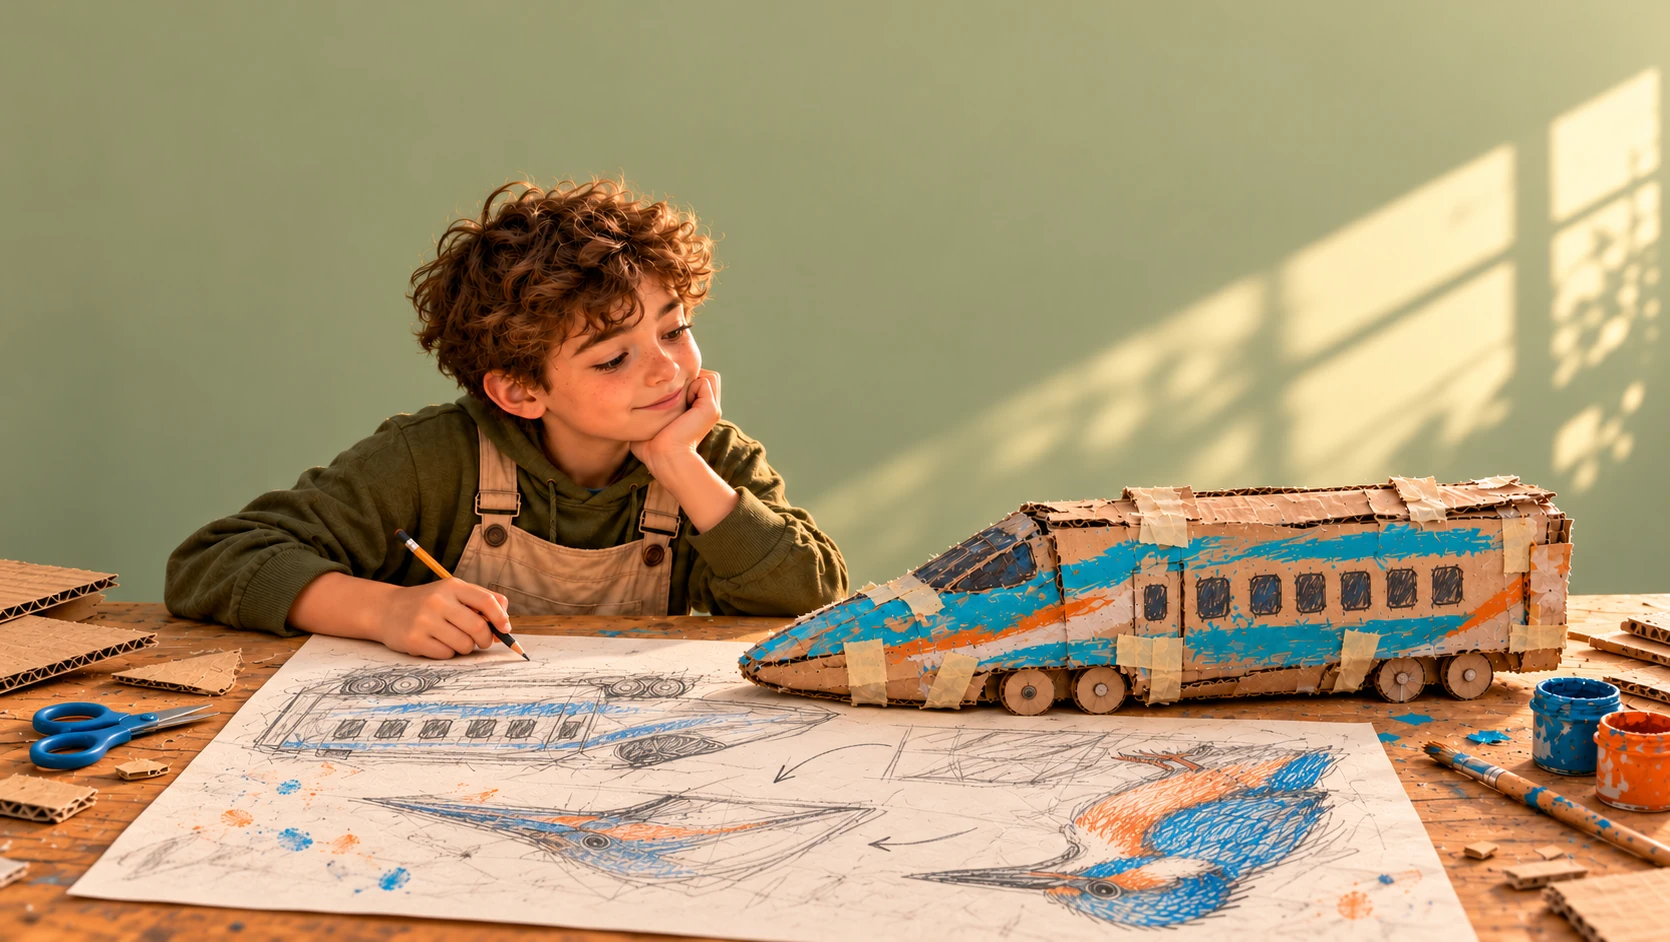
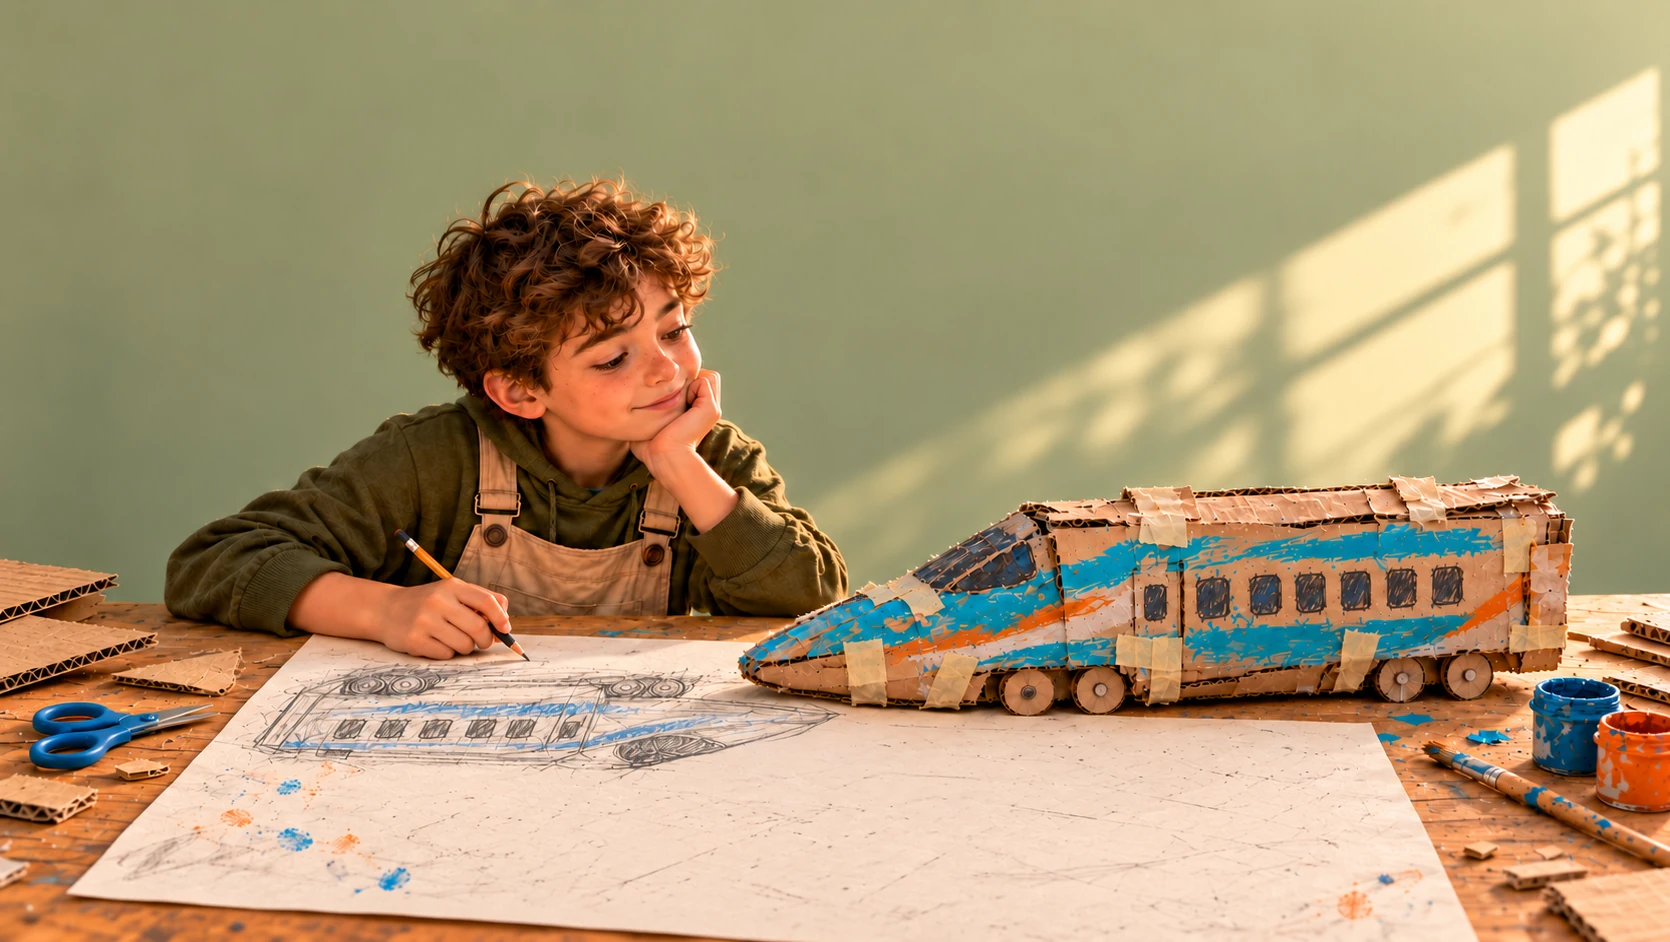
feat(landing): new Try one mission picture; the bird fades into the pencil train sketch
susan's 2026-10-18 picture (no kingfisher drawings on the paper) replaces
the mission photo for both languages. The flying bird now fades into the
pencil sketch of the train on the paper, then flies on as before.

diff --git a/frontend/src/app/[locale]/(marketing)/_components/FlyingBird.tsx b/frontend/src/app/[locale]/(marketing)/_components/FlyingBird.tsx
@@ -72,8 +72,8 @@ const NATIVE_HEIGHT = 8988;
 // lowered 40 artwork px as susan asked for the bird and papers.
 const HERO_ART = { x: 1418 / 1.1497, y: 387 / 1.1497 + 40, scale: 0.369 / 1.1497 };
 // The canvas docking pose on the 1720×914 painting image (the reference shows it at 1920×1020, ×1.11628).
-// The kingfisher sketch on the paper in the "Try one mission" photo (1670×942): the bird docks on it.
-const MISSION_ART = { x: 1163, y: 935, scale: 0.3, w: 1670 };
+// The pencil train sketch on the paper in the "Try one mission" photo (1670×942): the bird fades into it.
+const MISSION_ART = { x: 540, y: 790, scale: 0.3, w: 1670 };
 const CANVAS_ART = { x: 815 / 1.11628, y: (2595 - 2217) / 1.11628, scale: 0.7 / 1.11628 };
 const PAINT = { w: 1720, h: 914 };
 
